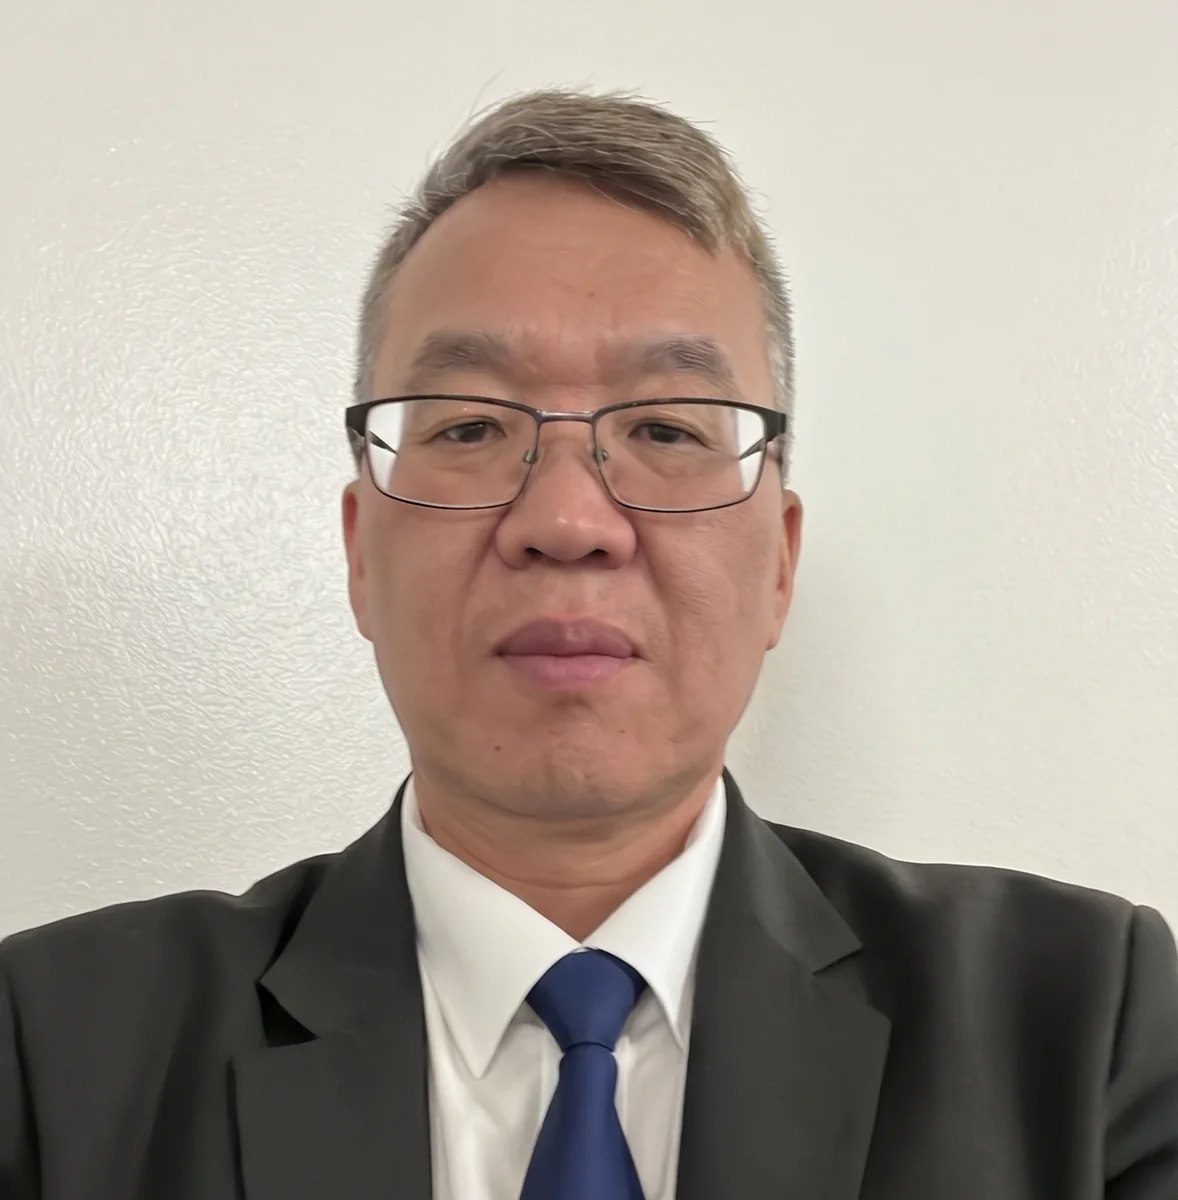
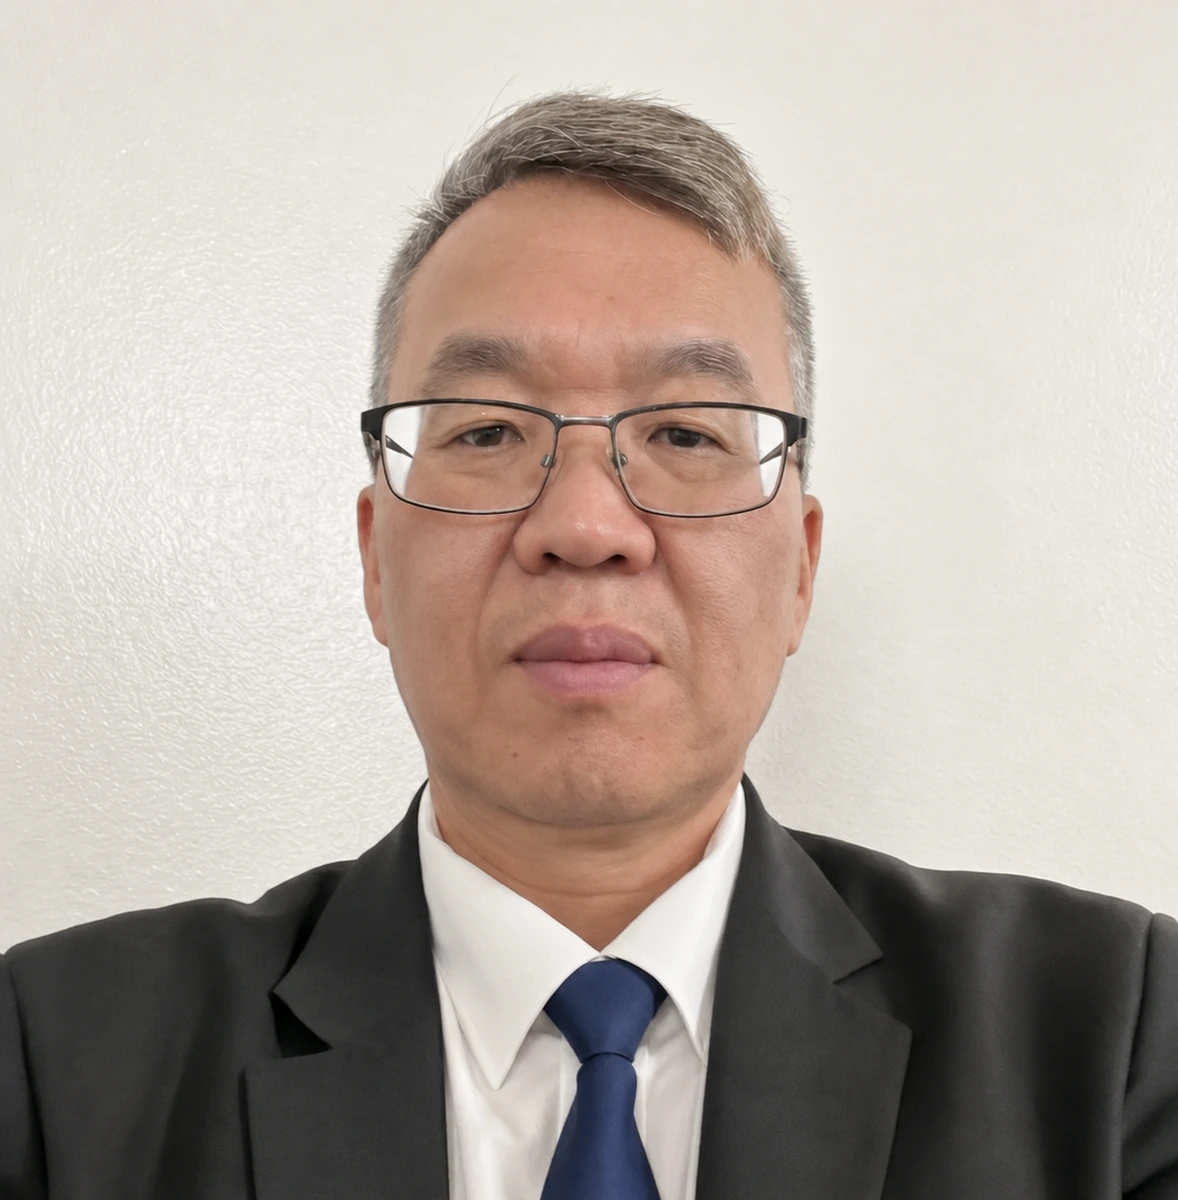
Update ministry leader details

diff --git a/client/src/components/AboutUs.js b/client/src/components/AboutUs.js
@@ -18,9 +18,9 @@ const boardMembers = [
 const ministryLeaders = [
   { name: 'Munkh-Erdene Baldandorj', role: 'Pastor', image: munkhErdeneImage, photoClass: 'leadership-photo--munkh-erdene' },
   { name: 'Tamir Lkhamsuren', role: 'Ministry Leader', image: tamirImage },
-  { name: 'Temuujin Ganbaatar', role: 'Ministry Leader', image: temuujinImage },
-  { name: 'Enkhbat Munkhbold', role: 'Ministry Leader', image: enkhbatBoardImage },
-  { name: 'Boldbayar Purevdorj', role: 'Ministry Leader', image: boldbayarImage },
+  { name: 'Temuujin Ganbaatar', role: 'Worship Team', image: temuujinImage },
+  { name: 'Enkhbat Munkhbold', role: "Men's Fellowship", image: enkhbatBoardImage },
+  { name: 'Boldbayar Purevdorj', role: 'Youth Fellowship', image: boldbayarImage },
 ];
 
 function LeadershipCard({ person }) {
